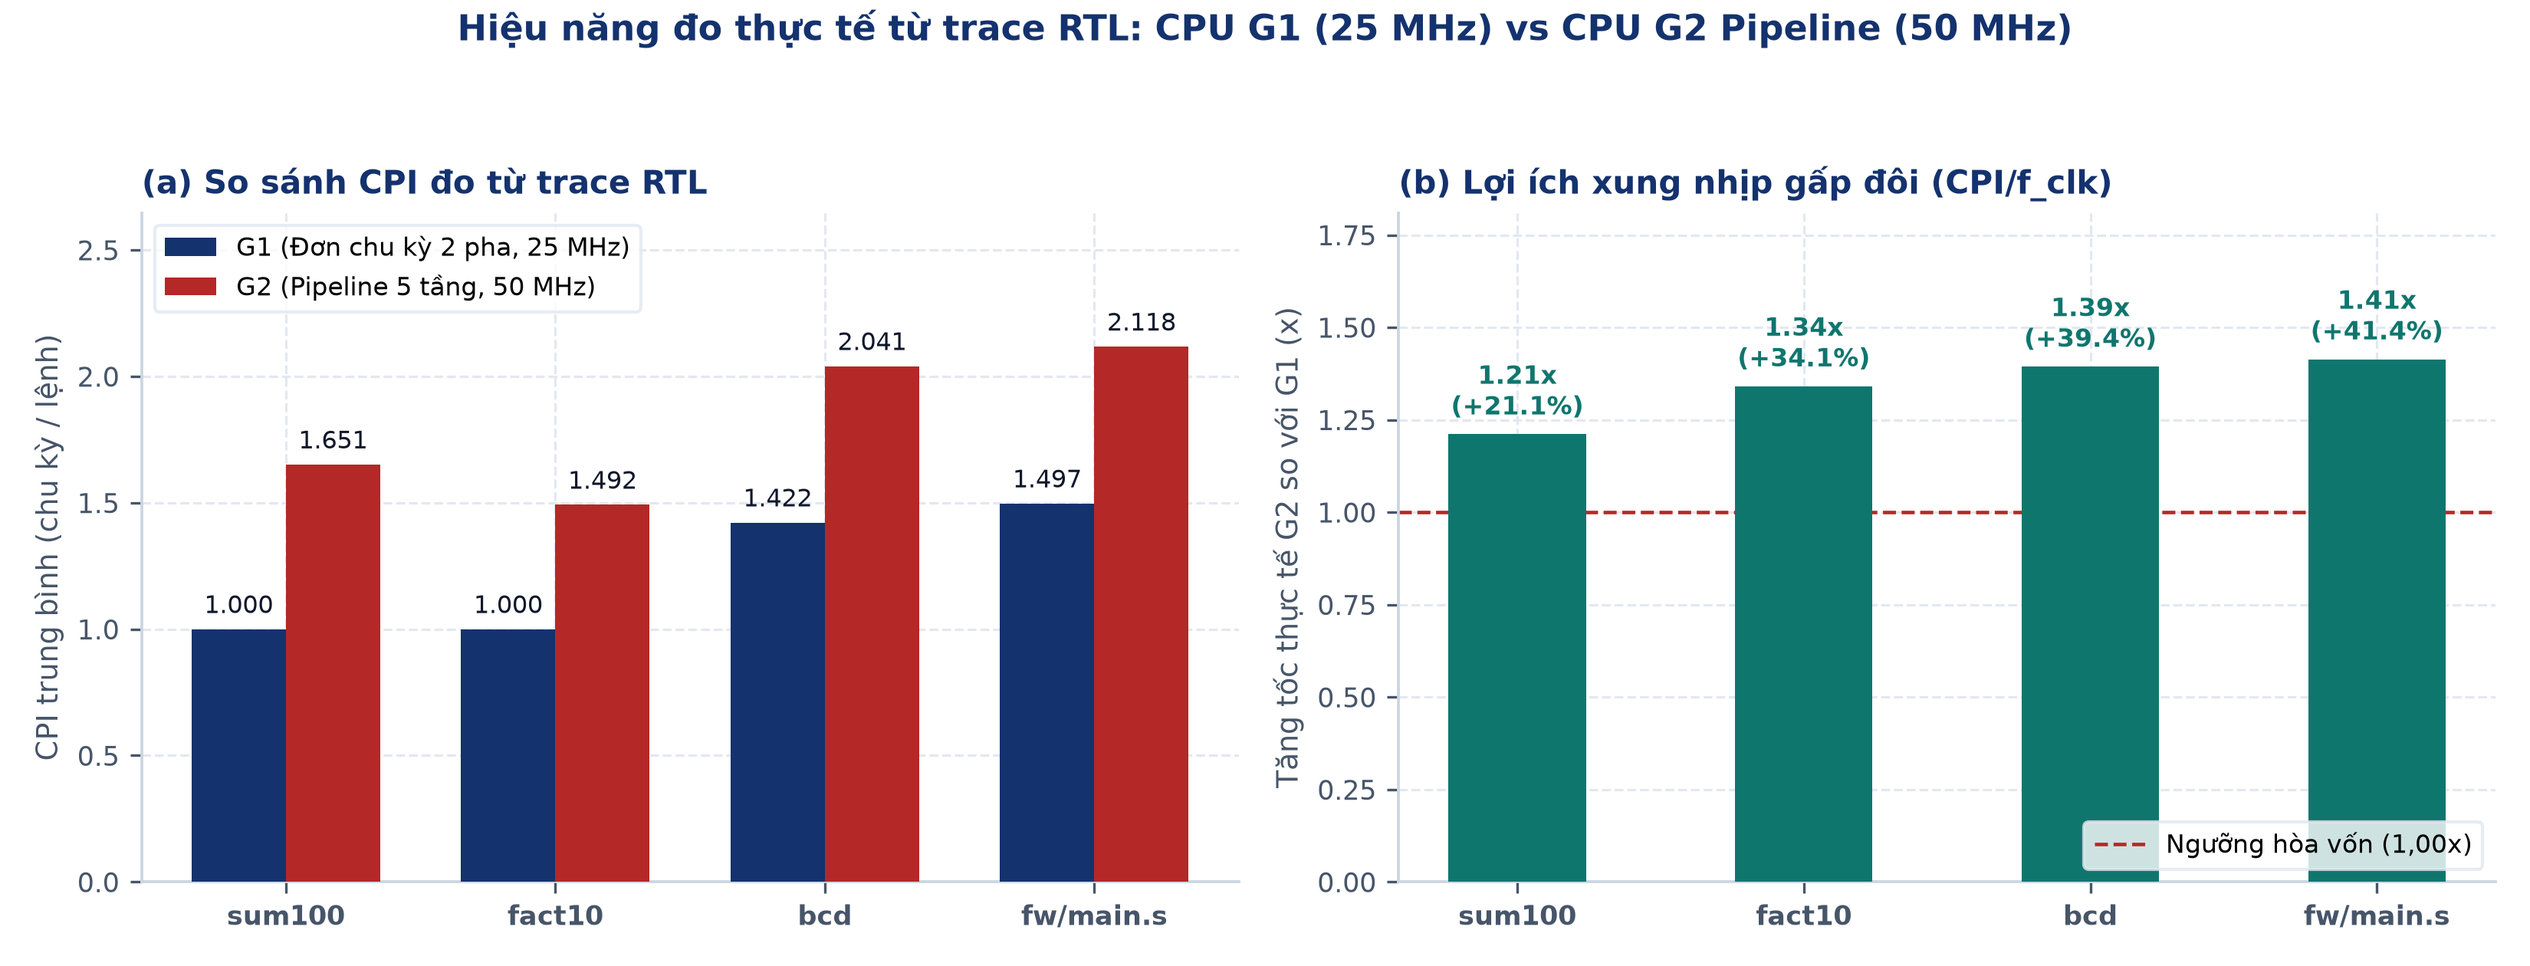
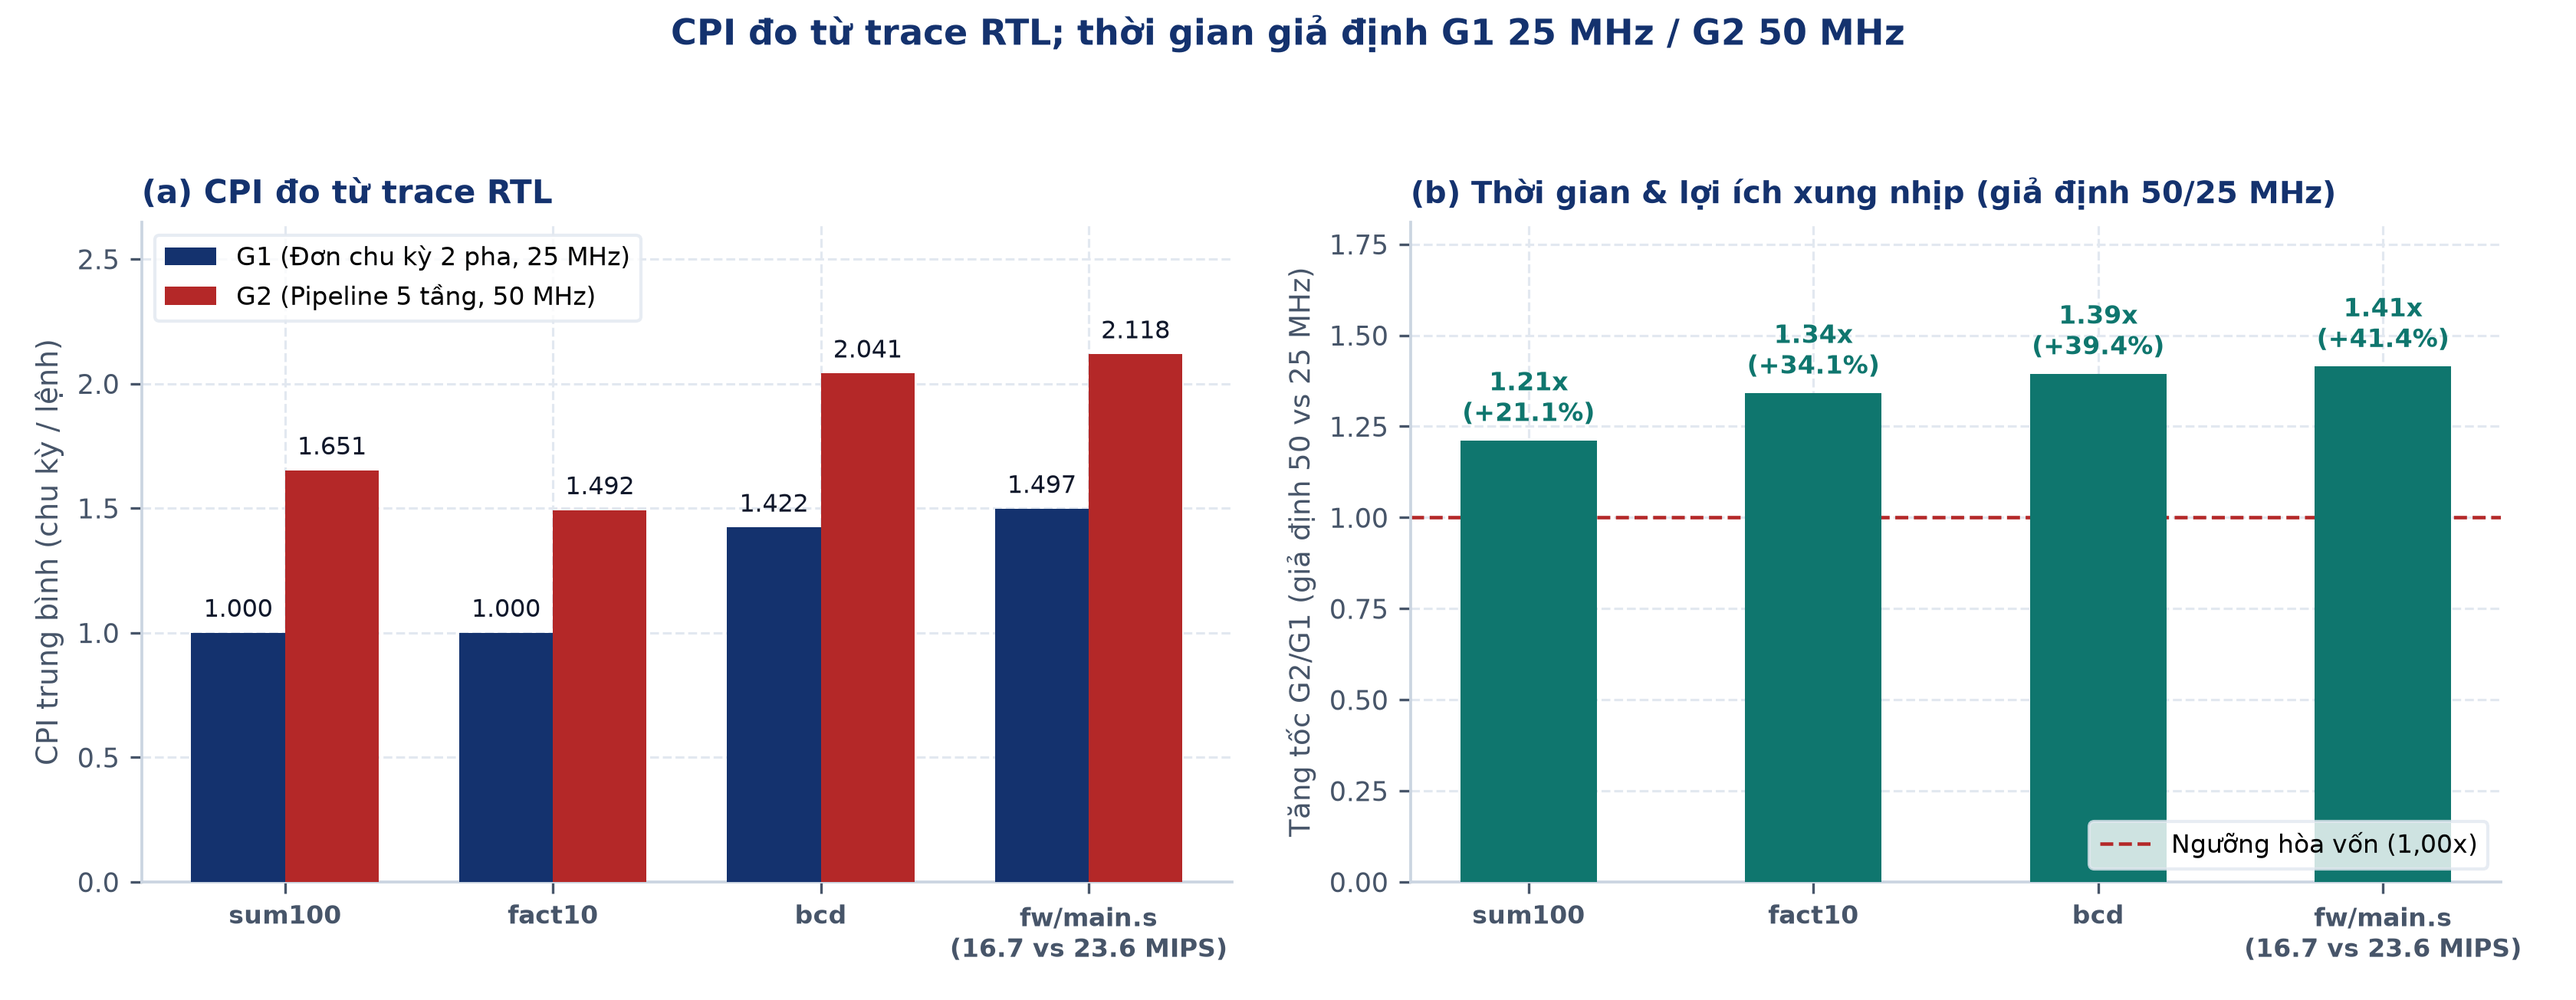
small fix

diff --git a/tools/benchmarks/bench_cpi_amdahl.py b/tools/benchmarks/bench_cpi_amdahl.py
@@ -125,12 +125,15 @@ def run_cpi_and_amdahl():
     _save_json("cpi_benchmark.json", summary)
 
     # --- Plot 1: fig_cpi_g1_vs_g2.png ---
-    labels = [r["name"] for r in rows] + ["fw/main.s"]
+    mips_g1 = 25.0 / fw_entry["cpi_g1"]
+    mips_g2 = 50.0 / fw_entry["cpi_g2"]
+    fw_lbl = f"fw/main.s\n({mips_g1:.1f} vs {mips_g2:.1f} MIPS)"
+    labels = [r["name"] for r in rows] + [fw_lbl]
     cpi_g1s = [r["cpi_g1"] for r in rows] + [fw_entry["cpi_g1"]]
     cpi_g2s = [r["cpi_g2"] for r in rows] + [fw_entry["cpi_g2"]]
     speedups = [r["speedup"] for r in rows] + [fw_entry["speedup"]]
 
-    fig, (ax1, ax2) = plt.subplots(1, 2, figsize=(11.0, 4.2), dpi=300)
+    fig, (ax1, ax2) = plt.subplots(1, 2, figsize=(11.2, 4.35), dpi=300)
     x = np.arange(len(labels))
     w = 0.35
     _style_ax(ax1)
@@ -140,10 +143,10 @@ def run_cpi_and_amdahl():
         h = rect.get_height()
         ax1.text(rect.get_x() + rect.get_width() / 2, h + 0.04, f"{h:.3f}", ha="center", va="bottom", fontsize=7.8, color="#0F172A")
     ax1.set_xticks(x)
-    ax1.set_xticklabels(labels, fontsize=8.5, fontweight="bold")
+    ax1.set_xticklabels(labels, fontsize=8.0, fontweight="bold")
     ax1.set_ylim(0, max(cpi_g2s) * 1.25)
     ax1.set_ylabel("CPI trung bình (chu kỳ / lệnh)", fontsize=9, color=SLATE)
-    ax1.set_title("(a) So sánh CPI đo từ trace RTL", loc="left", fontsize=10, fontweight="bold", color=NAVY)
+    ax1.set_title("(a) CPI đo từ trace RTL", loc="left", fontsize=10, fontweight="bold", color=NAVY)
     ax1.legend(loc="upper left", fontsize=8, frameon=True, facecolor="#FFFFFF", edgecolor=GRID)
 
     _style_ax(ax2)
@@ -154,14 +157,14 @@ def run_cpi_and_amdahl():
         ax2.text(rect.get_x() + rect.get_width() / 2, h + 0.03, f"{h:.2f}x\n(+{(h-1)*100:.1f}%)",
                  ha="center", va="bottom", fontsize=8, fontweight="bold", color=TEAL)
     ax2.set_xticks(x)
-    ax2.set_xticklabels(labels, fontsize=8.5, fontweight="bold")
+    ax2.set_xticklabels(labels, fontsize=8.0, fontweight="bold")
     ax2.set_ylim(0, max(speedups) * 1.28)
-    ax2.set_ylabel("Tăng tốc thực tế G2 so với G1 (x)", fontsize=9, color=SLATE)
-    ax2.set_title("(b) Lợi ích xung nhịp gấp đôi (CPI/f_clk)", loc="left", fontsize=10, fontweight="bold", color=NAVY)
+    ax2.set_ylabel("Tăng tốc G2/G1 (giả định 50 vs 25 MHz)", fontsize=8.8, color=SLATE)
+    ax2.set_title("(b) Thời gian & lợi ích xung nhịp (giả định 50/25 MHz)", loc="left", fontsize=9.6, fontweight="bold", color=NAVY)
     ax2.legend(loc="lower right", fontsize=8, frameon=True, facecolor="#FFFFFF", edgecolor=GRID)
-    fig.suptitle("Hiệu năng đo thực tế từ trace RTL: CPU G1 (25 MHz) vs CPU G2 Pipeline (50 MHz)",
-                 fontsize=11, fontweight="bold", color=NAVY, y=0.99)
-    fig.tight_layout(rect=(0, 0, 1, 0.94))
+    fig.suptitle("CPI đo từ trace RTL; thời gian giả định G1 25 MHz / G2 50 MHz",
+                 fontsize=11, fontweight="bold", color=NAVY, y=0.985)
+    fig.tight_layout(rect=(0, 0, 1, 0.93))
     out_p1 = os.path.join(PLOT_DIR, "fig_cpi_g1_vs_g2.png")
     fig.savefig(out_p1, dpi=300)
     plt.close(fig)
